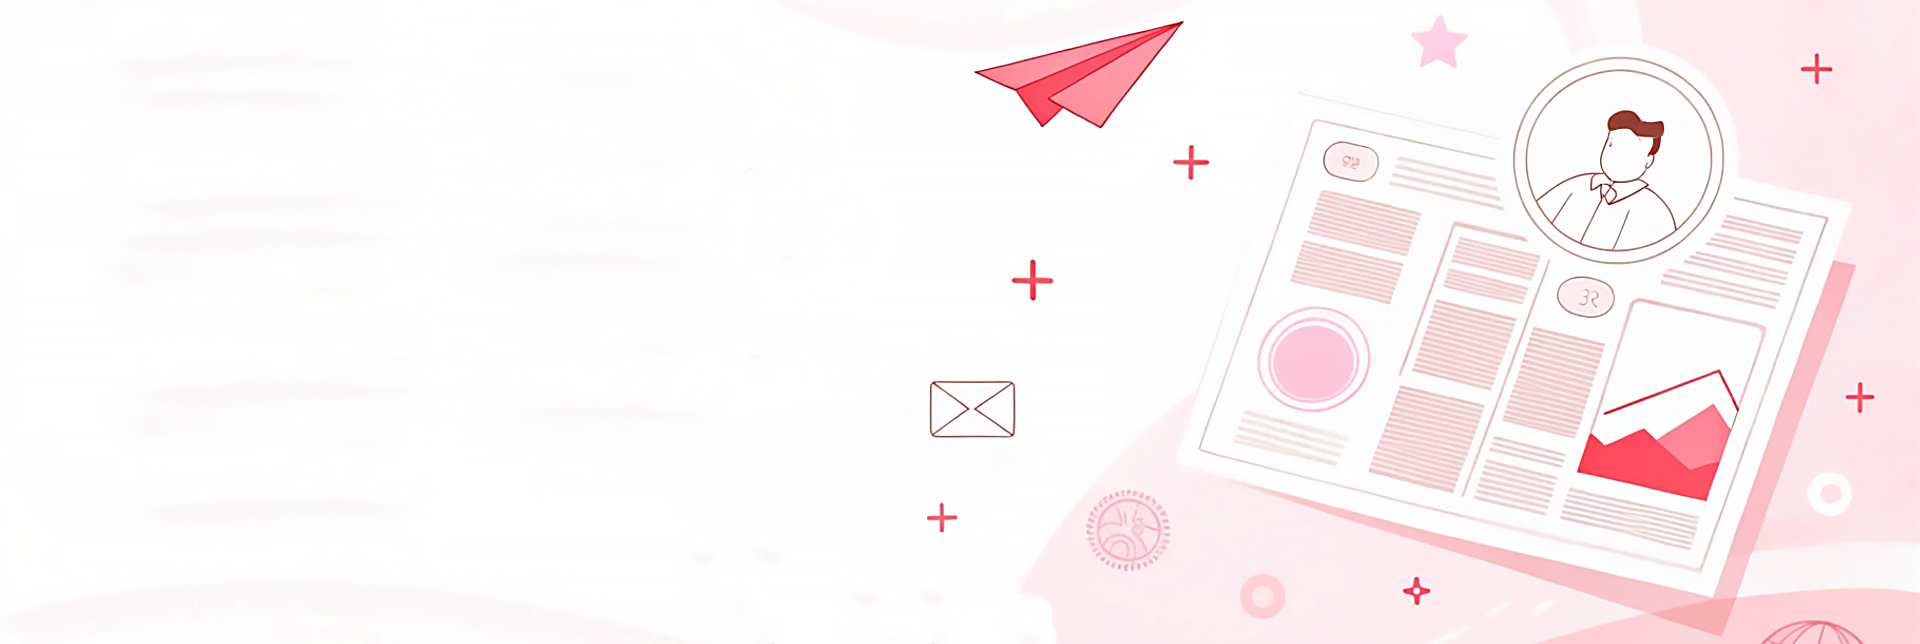
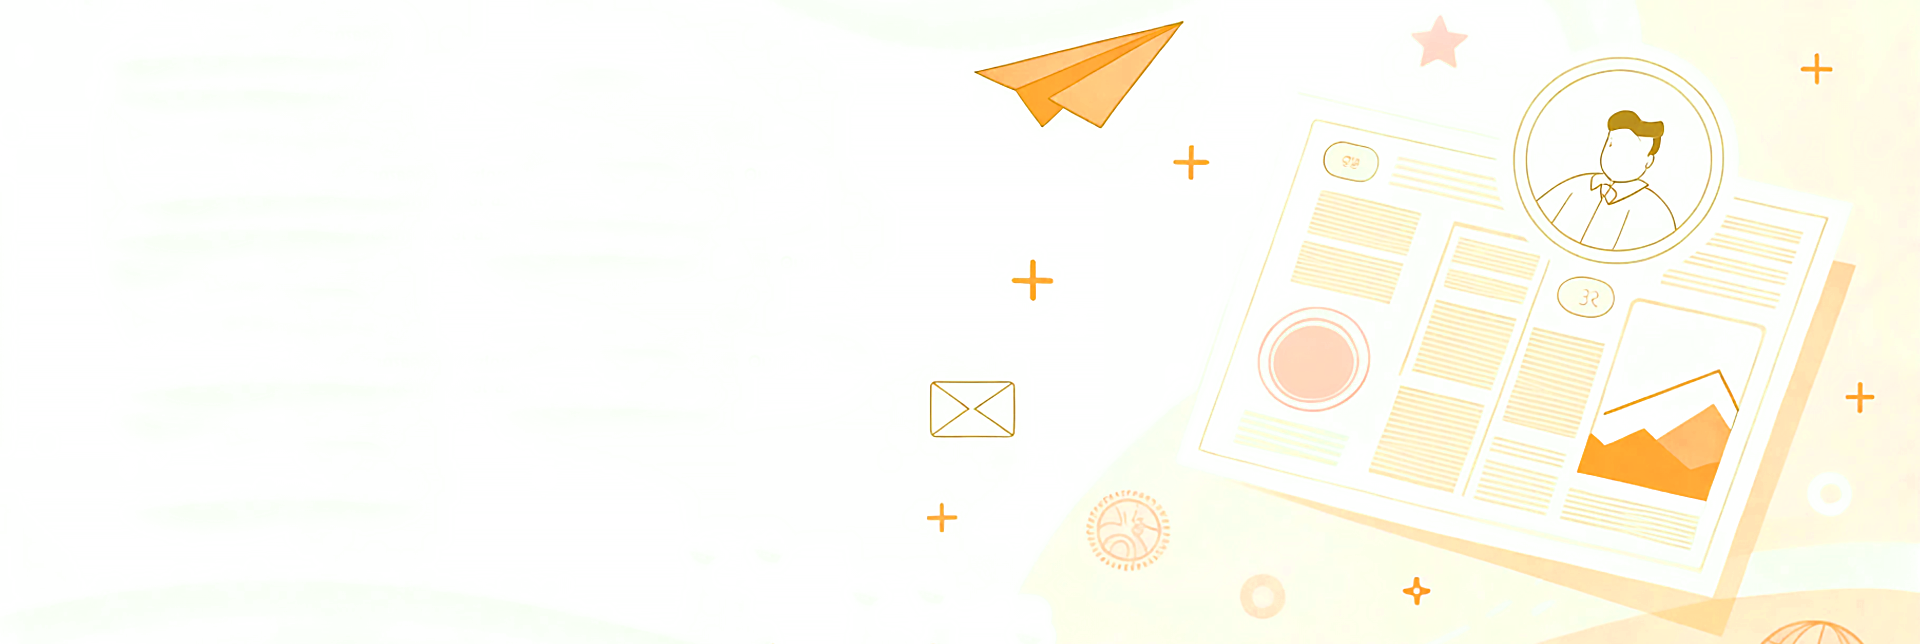
upd: colors

diff --git a/app/(client)/page.tsx b/app/(client)/page.tsx
@@ -56,7 +56,7 @@ export default function HomePage() {
   const scrollToTop = () => window.scrollTo({ top: 0, behavior: "smooth" });
 
   return (
-    <main className="flex flex-1 flex-col gap-16 py-8">
+    <main className="flex flex-1 flex-col gap-16 py-4">
       {/* ================= HERO / INTRO SECTION ================= */}
       <section
         className="relative flex min-h-[90vh] w-full items-center bg-cover bg-center bg-no-repeat"

diff --git a/app/(client)/globals.css b/app/(client)/globals.css
@@ -25,7 +25,7 @@
   /* --color-primary: #842a3b; */
   --color-primary: #f7931e;
   --color-primary-dark: #160F29;
-  --color-primary-accent: #c17181;
+  --color-primary-accent: #F9A94E;
   --color-orange-accent: #fdca90;
   --color-text: #130606;
   --color-text-highlight: #c17181;
